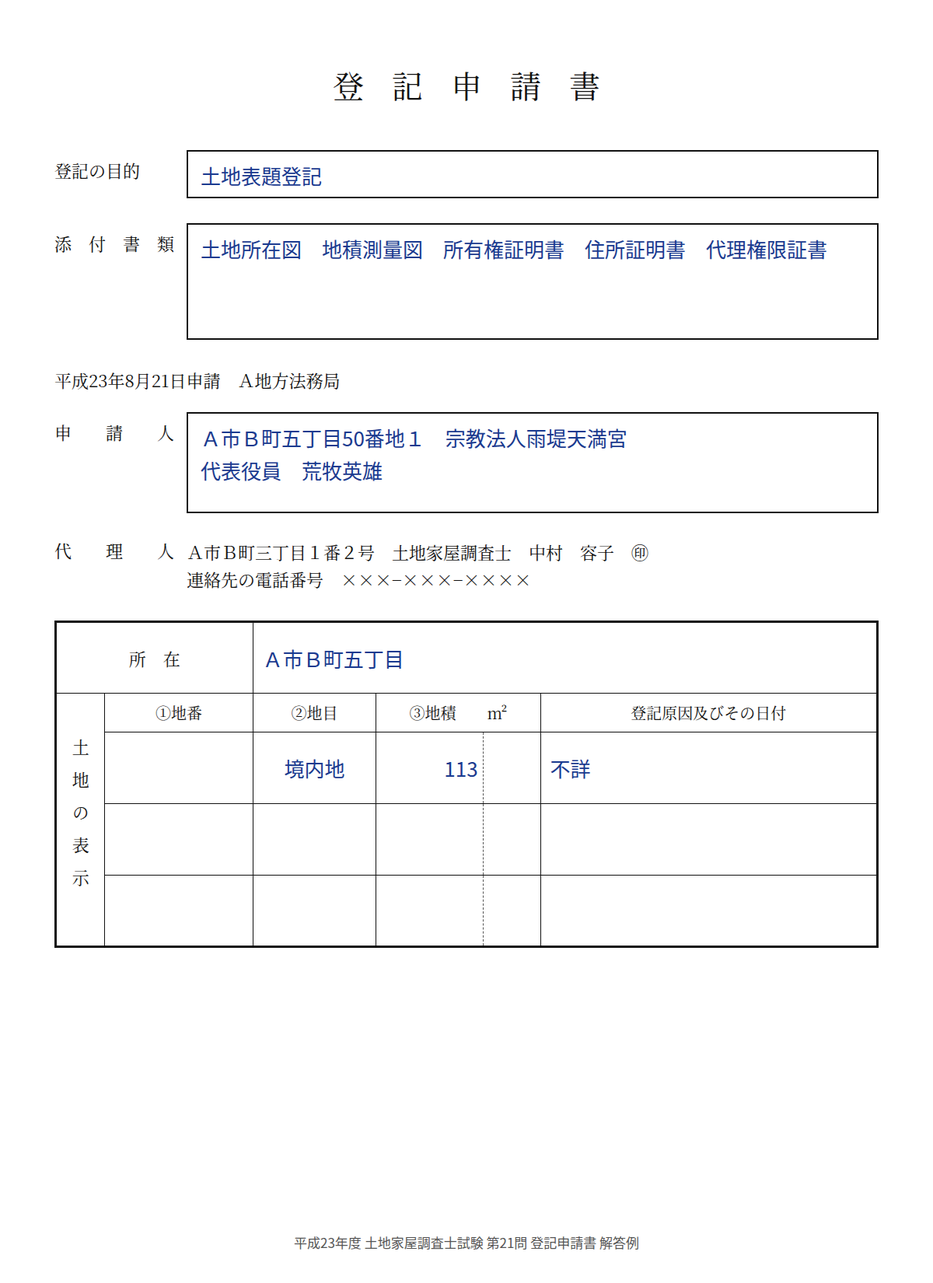
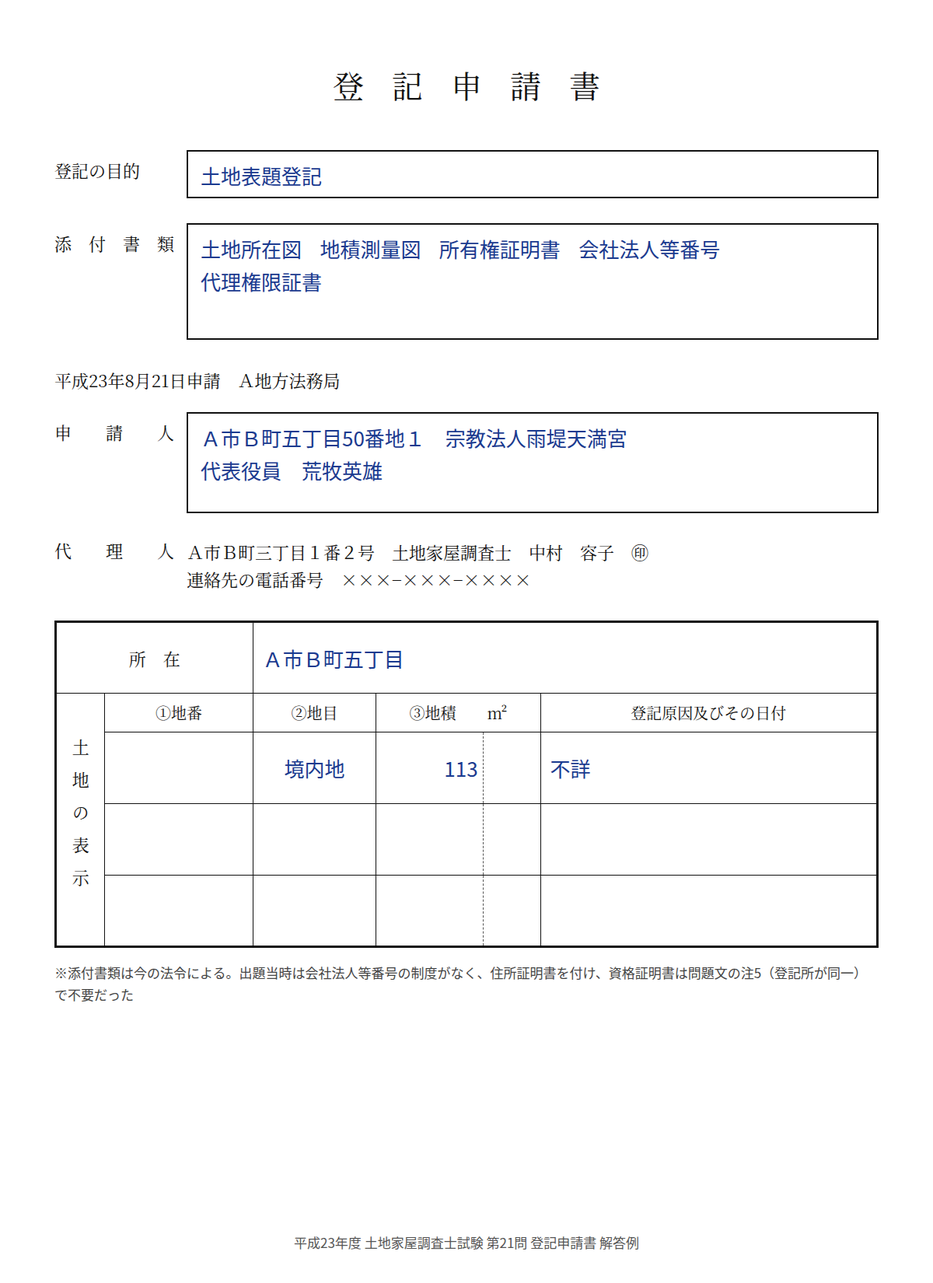
記述式：改題の要素は使わず、答えは今の法令で出題当時を注に添えるルールを追加し全年度を見直し
- 土地・建物の執筆プロンプト、チェックリスト、両方の依頼文に2つのルールを追加
  （予備校の改題の要素は記事・図解に反映しない／答えは今の法令、出題当時の扱いは「（出題当時は〜）」の注）
- 記事冒頭の改題の説明を削除（H23/Q22・H24/Q22・H25/Q21・H25/Q22・H26/Q22）
- H26/Q22・H27/Q21の添付情報に出題当時の注を整えた
- H23/Q21の添付書類を会社法人等番号に戻し出題当時の注を添え、申請書画像・添削画像・図11を再生成
- 照合スクリプトに改題の要素の不在・出題当時の注の確認を追加（全年度NG 0件）

Claude-Session: https://claude.ai/code/session_01RhiTQof9RGhuUzJokbcuhH

diff --git a/note-articles-Kijyutsu/H23/Q21/zu/H23_dai21mon_toukishinseisho_machigai.html b/note-articles-Kijyutsu/H23/Q21/zu/H23_dai21mon_toukishinseisho_machigai.html
@@ -23,6 +23,8 @@ table.land td.int { text-align: right; border-right: 1.5px dashed #555; padding-
 table.land td.dec { text-align: left; border-left: 1.5px dashed #555; padding-left: 6px; }
 table.land td.chimoku { text-align: center; }
 table.land td .ink, .box .ink { font-size: 26px; }
+.note { font-size: 17px; color: #444; margin-top: 18px; line-height: 1.6;
+         font-family: "Noto Sans CJK JP", "IPAGothic", sans-serif; }
 .caption { text-align: center; font-size: 17px; color: #555; margin-top: 30px;
             font-family: "Noto Sans CJK JP", "IPAGothic", sans-serif; }
 /* 添削画像 */
@@ -54,14 +56,14 @@ table.land td .ink, .box .ink { font-size: 26px; }
 <div class="plain" style="color:#888;font-size:18px">（申請の日付と提出先・申請人・代理人の欄は省略）</div>
 <div class="" style="position:relative"><table class="land compact"><colgroup><col style="width:6%"><col style="width:18%"><col style="width:15%"><col style="width:13%"><col style="width:7%"><col style="width:41%"></colgroup><tr><td class="shozai-lab" colspan="2">所　在</td><td colspan="4"><span class="ink">Ａ市Ｂ町五丁目</span></td></tr><tr><td class="vert" rowspan="2">土地の表示</td><td class="head">①地番</td><td class="head">②地目</td><td class="head" colspan="2">③地積　　m²</td><td class="head">登記原因及びその日付</td></tr><tr><td></td><td class="chimoku"><span class="ink">宅地</span></td><td class="int"><span class="ink">113</span></td><td class="dec"><span class="ink">87</span></td><td><span class="ink">昭和26年8月19日時効取得</span></td></tr></table></div>
 </div>
-<div class="panel"><div class="ptitle fix">②添削（赤ペン）</div><div class="row okrow"><div class="lab">添　付　書　類</div><div class="box fix" style="min-height:110px"><span class="item"><span class="ink">土地所在図</span></span><span class="item"><span class="ink">地積測量図</span></span><span class="item"><span class="ink">所有権証明書</span></span><span class="item"><span class="ink">住所証明書</span></span><span class="item"><span class="ink strike">資格証明書</span></span><span class="item"><span class="ink">代理権限証書</span></span></div></div>
-<div class="bubrow"><span class="bubble">問題文の注5：登記所が同一なので資格証明書は不要</span></div>
+<div class="panel"><div class="ptitle fix">②添削（赤ペン）</div><div class="row okrow"><div class="lab">添　付　書　類</div><div class="box fix" style="min-height:110px"><span class="item"><span class="ink">土地所在図</span></span><span class="item"><span class="ink">地積測量図</span></span><span class="item"><span class="ink">所有権証明書</span></span><span class="item"><span class="ink strike">住所証明書</span></span><span class="item"><span class="ink strike">資格証明書</span></span><span class="item"><span class="ink">代理権限証書</span></span><span class="red" style="font-size:26px">会社法人等番号</span></div></div>
+<div class="bubrow"><span class="bubble">今の法令では会社法人等番号<br>（出題当時は住所証明書を付け、資格証明書は注5で不要）</span></div>
 <div class="plain" style="color:#888;font-size:18px">（申請の日付と提出先・申請人・代理人の欄は省略）</div>
 <div class="" style="position:relative"><table class="land compact"><colgroup><col style="width:6%"><col style="width:18%"><col style="width:15%"><col style="width:13%"><col style="width:7%"><col style="width:41%"></colgroup><tr><td class="shozai-lab" colspan="2">所　在</td><td colspan="4"><span class="ink">Ａ市Ｂ町五丁目</span></td></tr><tr><td class="vert" rowspan="2">土地の表示</td><td class="head">①地番</td><td class="head">②地目</td><td class="head" colspan="2">③地積　　m²</td><td class="head">登記原因及びその日付</td></tr><tr><td></td><td class="chimoku"><span class="over"><span class="red up">境内地</span><span class="ink strike">宅地</span></span></td><td class="int"><span class="ink">113</span></td><td class="dec"><span class="ink strike">87</span></td><td><span class="over"><span class="red up">不詳</span><span class="ink strike">昭和26年8月19日時効取得</span></span></td></tr></table></div>
 <div class="bubrow table"><span class="bubble">境内地は1㎡未満切捨て、原因は土地が生じた原因の不詳</span></div></div>
-<div class="panel"><div class="ptitle ok">③正解</div><div class="row okrow"><div class="lab">添　付　書　類</div><div class="box good" style="min-height:110px"><span class="ink">土地所在図　地積測量図　所有権証明書　住所証明書　代理権限証書</span></div><svg class="check" width="44" height="44" viewBox="0 0 44 44"><circle cx="22" cy="22" r="20" fill="#fff" stroke="#2e9e44" stroke-width="3"/><path d="M11 23 L19 31 L33 14" fill="none" stroke="#2e9e44" stroke-width="5" stroke-linecap="round" stroke-linejoin="round"/></svg></div>
+<div class="panel"><div class="ptitle ok">③正解</div><div class="row okrow"><div class="lab">添　付　書　類</div><div class="box good" style="min-height:110px"><span class="item"><span class="ink">土地所在図</span></span><span class="item"><span class="ink">地積測量図</span></span><span class="item"><span class="ink">所有権証明書</span></span><span class="item"><span class="ink">会社法人等番号</span></span><span class="item"><span class="ink">代理権限証書</span></span></div><svg class="check" width="44" height="44" viewBox="0 0 44 44"><circle cx="22" cy="22" r="20" fill="#fff" stroke="#2e9e44" stroke-width="3"/><path d="M11 23 L19 31 L33 14" fill="none" stroke="#2e9e44" stroke-width="5" stroke-linecap="round" stroke-linejoin="round"/></svg></div>
 
 <div class="plain" style="color:#888;font-size:18px">（申請の日付と提出先・申請人・代理人の欄は省略）</div>
 <div class="good" style="position:relative"><table class="land compact"><colgroup><col style="width:6%"><col style="width:18%"><col style="width:15%"><col style="width:13%"><col style="width:7%"><col style="width:41%"></colgroup><tr><td class="shozai-lab" colspan="2">所　在</td><td colspan="4"><span class="ink">Ａ市Ｂ町五丁目</span></td></tr><tr><td class="vert" rowspan="2">土地の表示</td><td class="head">①地番</td><td class="head">②地目</td><td class="head" colspan="2">③地積　　m²</td><td class="head">登記原因及びその日付</td></tr><tr><td></td><td class="chimoku"><span class="ink">境内地</span></td><td class="int"><span class="ink">113</span></td><td class="dec"></td><td><span class="ink">不詳</span></td></tr></table><svg class="check" width="44" height="44" viewBox="0 0 44 44"><circle cx="22" cy="22" r="20" fill="#fff" stroke="#2e9e44" stroke-width="3"/><path d="M11 23 L19 31 L33 14" fill="none" stroke="#2e9e44" stroke-width="5" stroke-linecap="round" stroke-linejoin="round"/></svg></div>
 </div>
-<div class="caption" style="margin:10px 0 30px">平成23年度 第21問｜資格証明書は注5で不要、境内地113㎡、原因は不詳</div></body></html>
+<div class="caption" style="margin:10px 0 30px">平成23年度 第21問｜添付書類は会社法人等番号、境内地113㎡、原因は不詳</div></body></html>

diff --git a/note-articles-Kijyutsu/H23/Q21/zu/H23_dai21mon_toukishinseisho_kansei.html b/note-articles-Kijyutsu/H23/Q21/zu/H23_dai21mon_toukishinseisho_kansei.html
@@ -23,6 +23,8 @@ table.land td.int { text-align: right; border-right: 1.5px dashed #555; padding-
 table.land td.dec { text-align: left; border-left: 1.5px dashed #555; padding-left: 6px; }
 table.land td.chimoku { text-align: center; }
 table.land td .ink, .box .ink { font-size: 26px; }
+.note { font-size: 17px; color: #444; margin-top: 18px; line-height: 1.6;
+         font-family: "Noto Sans CJK JP", "IPAGothic", sans-serif; }
 .caption { text-align: center; font-size: 17px; color: #555; margin-top: 30px;
             font-family: "Noto Sans CJK JP", "IPAGothic", sans-serif; }
 /* 添削画像 */
@@ -51,11 +53,12 @@ table.land td .ink, .box .ink { font-size: 26px; }
 </style></head><body><div class="page">
 <div class="title">登記申請書</div>
 <div class="row"><div class="lab">登記の目的</div><div class="box" style="height:62px"><span class="ink">土地表題登記</span></div></div>
-<div class="row"><div class="lab">添　付　書　類</div><div class="box" style="height:150px"><span class="ink">土地所在図　地積測量図　所有権証明書　住所証明書　代理権限証書</span></div></div>
+<div class="row"><div class="lab">添　付　書　類</div><div class="box" style="height:150px"><span class="item"><span class="ink">土地所在図</span></span><span class="item"><span class="ink">地積測量図</span></span><span class="item"><span class="ink">所有権証明書</span></span><span class="item"><span class="ink">会社法人等番号</span></span><span class="item"><span class="ink">代理権限証書</span></span></div></div>
 <div class="plain">平成23年8月21日申請　Ａ地方法務局</div>
 <div class="row"><div class="lab">申　　請　　人</div><div class="box" style="height:130px"><span class="ink">Ａ市Ｂ町五丁目50番地１　宗教法人雨堤天満宮<br>代表役員　荒牧英雄</span></div></div>
 <div class="dairi"><div class="lab">代　　理　　人</div><div class="txt">Ａ市Ｂ町三丁目１番２号　土地家屋調査士　中村　容子　㊞<br>連絡先の電話番号　×××−×××−××××</div></div>
 <div style="height:6px"></div>
 <table class="land"><colgroup><col style="width:6%"><col style="width:18%"><col style="width:15%"><col style="width:13%"><col style="width:7%"><col style="width:41%"></colgroup><tr><td class="shozai-lab" colspan="2">所　在</td><td colspan="4"><span class="ink">Ａ市Ｂ町五丁目</span></td></tr><tr><td class="vert" rowspan="4">土地の表示</td><td class="head">①地番</td><td class="head">②地目</td><td class="head" colspan="2">③地積　　m²</td><td class="head">登記原因及びその日付</td></tr><tr><td></td><td class="chimoku"><span class="ink">境内地</span></td><td class="int"><span class="ink">113</span></td><td class="dec"></td><td><span class="ink">不詳</span></td></tr><tr><td></td><td class="chimoku"></td><td class="int"></td><td class="dec"></td><td></td></tr><tr><td></td><td class="chimoku"></td><td class="int"></td><td class="dec"></td><td></td></tr></table>
+<div class="note">※添付書類は今の法令による。出題当時は会社法人等番号の制度がなく、住所証明書を付け、資格証明書は問題文の注5（登記所が同一）で不要だった</div>
 <div class="caption">平成23年度 土地家屋調査士試験 第21問 登記申請書 解答例</div>
 </div></body></html>

diff --git a/note-articles-Kijyutsu/H23/Q21/zu/make_H23_dai21mon_shinseisho_gazou.py b/note-articles-Kijyutsu/H23/Q21/zu/make_H23_dai21mon_shinseisho_gazou.py
@@ -47,6 +47,8 @@ table.land td.int {{ text-align: right; border-right: 1.5px dashed #555; padding
 table.land td.dec {{ text-align: left; border-left: 1.5px dashed #555; padding-left: 6px; }}
 table.land td.chimoku {{ text-align: center; }}
 table.land td .ink, .box .ink {{ font-size: 26px; }}
+.note {{ font-size: 17px; color: #444; margin-top: 18px; line-height: 1.6;
+         font-family: "Noto Sans CJK JP", "IPAGothic", sans-serif; }}
 .caption {{ text-align: center; font-size: 17px; color: #555; margin-top: 30px;
             font-family: "Noto Sans CJK JP", "IPAGothic", sans-serif; }}
 /* 添削画像 */
@@ -103,9 +105,15 @@ def page(body):
     return f'<!doctype html><html lang="ja"><head><meta charset="utf-8"><style>{CSS}</style></head><body>{body}</body></html>'
 
 
+def items(s, strike=()):
+    """添付書類を書類ごとの塊にして、書類名の途中で折り返さないようにする。strike に入れた書類には取消線。"""
+    return ''.join(f'<span class="item"><span class="ink{" strike" if t in strike else ""}">{t}</span></span>' for t in s.split('　'))
+
+
 # ---- 完成形（記入データは prompt_H23_dai21mon_toukishinseisho_gazou.md のとおり） ----
 DATE = '平成23年8月21日申請　Ａ地方法務局'
-TENPU = '土地所在図　地積測量図　所有権証明書　住所証明書　代理権限証書'
+TENPU = '土地所在図　地積測量図　所有権証明書　会社法人等番号　代理権限証書'
+NOTE = '※添付書類は今の法令による。出題当時は会社法人等番号の制度がなく、住所証明書を付け、資格証明書は問題文の注5（登記所が同一）で不要だった'
 APPLICANT = 'Ａ市Ｂ町五丁目50番地１　宗教法人雨堤天満宮<br>代表役員　荒牧英雄'
 DAIRI = 'Ａ市Ｂ町三丁目１番２号　土地家屋調査士　中村　容子　㊞<br>連絡先の電話番号　×××−×××−××××'
 SHOZAI = 'Ａ市Ｂ町五丁目'
@@ -113,12 +121,13 @@ ROWS = [('', '境内地', '113', '', '不詳')]
 kansei = page(f'''<div class="page">
 <div class="title">登記申請書</div>
 <div class="row"><div class="lab">登記の目的</div><div class="box" style="height:62px">{ink('土地表題登記')}</div></div>
-<div class="row"><div class="lab">添　付　書　類</div><div class="box" style="height:150px">{ink(TENPU)}</div></div>
+<div class="row"><div class="lab">添　付　書　類</div><div class="box" style="height:150px">{items(TENPU)}</div></div>
 <div class="plain">{DATE}</div>
 <div class="row"><div class="lab">申　　請　　人</div><div class="box" style="height:130px">{ink(APPLICANT)}</div></div>
 <div class="dairi"><div class="lab">代　　理　　人</div><div class="txt">{DAIRI}</div></div>
 <div style="height:6px"></div>
 {land_table([tuple(ink(v) for v in r) for r in ROWS], shozai=ink(SHOZAI))}
+<div class="note">{NOTE}</div>
 <div class="caption">平成23年度 土地家屋調査士試験 第21問 登記申請書 解答例</div>
 </div>''')
 
@@ -140,25 +149,21 @@ def snippet(tenpu_html, chimoku, dec, genin, bubble1='', bubble2='', good=False,
 NG_TENPU = '土地所在図　地積測量図　所有権証明書　住所証明書　資格証明書　代理権限証書'
 
 
-def items(s, strike=()):
-    """添付書類を書類ごとの塊にして、書類名の途中で折り返さないようにする。strike に入れた書類には取消線。"""
-    return ''.join(f'<span class="item"><span class="ink{" strike" if t in strike else ""}">{t}</span></span>' for t in s.split('　'))
-
 
 ng_panel = snippet(items(NG_TENPU), ink('宅地'), ink('87'), ink('昭和26年8月19日時効取得'))
 fix_panel = snippet(
-    items(NG_TENPU, strike=('資格証明書',)),
+    items(NG_TENPU, strike=('住所証明書', '資格証明書')) + '<span class="red" style="font-size:26px">会社法人等番号</span>',
     '<span class="over"><span class="red up">境内地</span><span class="ink strike">宅地</span></span>',
     '<span class="ink strike">87</span>',
     '<span class="over"><span class="red up">不詳</span><span class="ink strike">昭和26年8月19日時効取得</span></span>',
-    bubble1='問題文の注5：登記所が同一なので資格証明書は不要',
+    bubble1='今の法令では会社法人等番号<br>（出題当時は住所証明書を付け、資格証明書は注5で不要）',
     bubble2='境内地は1㎡未満切捨て、原因は土地が生じた原因の不詳', fix=True)
-ok_panel = snippet(ink(TENPU), ink('境内地'), '', ink('不詳'), good=True)
+ok_panel = snippet(items(TENPU), ink('境内地'), '', ink('不詳'), good=True)
 machigai = page(f'''
 <div class="panel"><div class="ptitle ng">①誤答</div>{ng_panel}</div>
 <div class="panel"><div class="ptitle fix">②添削（赤ペン）</div>{fix_panel}</div>
 <div class="panel"><div class="ptitle ok">③正解</div>{ok_panel}</div>
-<div class="caption" style="margin:10px 0 30px">平成23年度 第21問｜資格証明書は注5で不要、境内地113㎡、原因は不詳</div>''')
+<div class="caption" style="margin:10px 0 30px">平成23年度 第21問｜添付書類は会社法人等番号、境内地113㎡、原因は不詳</div>''')
 
 exe = sorted(glob.glob('/opt/pw-browsers/chromium-*/chrome-linux/chrome'))
 with sync_playwright() as p:

diff --git a/note-articles-Kijyutsu/H23/Q21/zu/draw_H23_dai21mon_kaisetsuzu.py b/note-articles-Kijyutsu/H23/Q21/zu/draw_H23_dai21mon_kaisetsuzu.py
@@ -452,7 +452,7 @@ ALL_PROBLEMS += save(fig, [z], 'H23_dai21mon_zu10_menseki_chimoku.png')
 # 図11：問3 申請書の整理（固定配置）
 # =====================================================================
 fig, ax = fixed_figure('図11　問3　申請書の考え方（登記原因・添付書類・地番）',
-                       '取得原因（時効取得）と表題登記の登記原因（土地が生じた原因）を混ぜない。問題文の注5で資格証明書は不要、住所証明書は別の決まりで要る。')
+                       '取得原因（時効取得）と表題登記の登記原因（土地が生じた原因）を混ぜない。添付書類は今の法令で会社法人等番号（出題当時の扱いは注で添える）。')
 BOX11 = [
     (4, 54, 44, 40, '登記原因及びその日付', RED,
      ['表題登記の登記原因＝土地が生じた原因', '本件土地はいつ・どうしてできたか分からない', '→「不詳」',
@@ -460,8 +460,7 @@ BOX11 = [
     (52, 54, 44, 40, '時効取得はどこに出る？', BLUE,
      ['所有権を有することを証する情報', '（不動産登記令別表4の項添付情報欄ハ）', '→ A財務事務所の書面＝所有権証明書'], [2]),
     (4, 6, 44, 42, '添付書類', PURPLE,
-     ['土地所在図　地積測量図', '所有権証明書　住所証明書', '代理権限証書', '資格証明書は問題文の注5で不要',
-      '（登記所が同一のため）'], [3]),
+     ['土地所在図　地積測量図', '所有権証明書　会社法人等番号', '代理権限証書', '（出題当時は会社法人等番号がなく住所証明書を付け、', '　資格証明書は問題文の注5で不要）'], [1]),
     (52, 6, 44, 42, '土地の表示', GREEN,
      ['所在：A市B町五丁目', '①地番：空欄（登記官が付ける）', '②地目：境内地（準則第68条第13号）',
       '③地積：113（1㎡未満切捨て）', '登録免許税の欄はない（非課税）'], [2, 3]),

diff --git a/note-articles-Kijyutsu/H26/Q22/verify_H26_dai22mon.py b/note-articles-Kijyutsu/H26/Q22/verify_H26_dai22mon.py
@@ -112,7 +112,7 @@ check('登記識別情報', '（同令第8条第1項第3号）。これは合併
 check('会社法人等番号', '（不動産登記令第7条第1項第1号イ）')
 check('印鑑証明書の根拠', '不動産登記規則第47条第3号イ（6）')
 check('印鑑証明書の省略', '（同規則第49条第2項第1号）')
-check('本試験当時の資格証明書', '代表者の資格を証する情報（資格証明書）と印鑑証明書を付けていたの')
+check('出題当時の注（資格証明書）', '（出題当時は会社法人等番号の制度〈平成27年11月施行〉がなく、会社法人等番号の代わりに代表者の資格を証する情報〈資格証明書〉を付け、印鑑証明書も省略せずに付けていた）')
 check('問3 添付情報', '添付情報は、建物図面、各階平面図、登記識別情報、会社法人等番号、印鑑証明書（会社法人等番号の提供により省略）、代理権限証書です')
 check('登録免許税', '合併後の建物1個につき1,000円（登録免許税法別表第一の一（十三）ロ）')
 check('申請人', '（不動産登記法第54条第1項。答案用紙では略）')

diff --git a/note-articles-Kijyutsu/H23/Q22/verify_H23_dai22mon.py b/note-articles-Kijyutsu/H23/Q22/verify_H23_dai22mon.py
@@ -56,7 +56,8 @@ for old, new in DATES.items():
     absent('改題版の日付', old)
     absent('改題版の日付', old, form, '申請書')
     check('本試験の日付', new)
-check('改題版の注記', '解答例は日付を平成30年に置き換えた改題版のため、試験問題の本文と答案用紙の日付に戻して照合しました')
+check('照合済みの一文（改題の説明は書かない。2026-09-30、ユーザー指示）', '※本記事の数値は、アガルートアカデミーの解答例と照合済みです。')
+absent('改題の説明', '改題')
 
 # ---- 敷地（座標リスト）：F-789SGの表示と辺長 ----
 A, B, C, D, E = P(254.43, 187.17), P(241.25, 187.17), P(239.25, 185.17), P(239.25, 163.79), P(254.43, 163.79)

diff --git a/note-articles-Kijyutsu/H23/Q21/note_H23_dai21mon_tochi_kaiwa_kaisetsu.md b/note-articles-Kijyutsu/H23/Q21/note_H23_dai21mon_tochi_kaiwa_kaisetsu.md
@@ -57,7 +57,7 @@
 「問題文の注1（座標は小数第3位を四捨五入）、問題文の注2（訂正の方法）、問題文の注3（地積測量図の辺長は小数第3位を四捨五入、座標値・系の番号・求積方法・地積は書かなくてよい）、問題文の注7（書面申請）は、毎年ほとんど同じです。今年だけなのは、問題文の注4（T2・T3を地積測量図に描いて、名称と座標値を書く）、問題文の注5（申請を受ける登記所と法人の登記を受けた登記所が同一）、問題文の注6（近傍類似の土地の地図の縮尺は500分の1）です」
 
 **トリ先生**  
-「そう。毎年同じ注は流し読みでいい。今年だけの3つは、どれも答案のどこかに効いてくる。問題文の注5は申請書の添付書類、問題文の注6は土地所在図の縮尺、問題文の注4は地積測量図よ」
+「そう。毎年同じ注は流し読みでいい。今年だけの3つは、どれも答案のどこかに効いてくる。問題文の注5は出題当時の申請書の添付書類（今の法令では会社法人等番号になるので、第6章で出題当時の扱いとして注に添える）、問題文の注6は土地所在図の縮尺、問題文の注4は地積測量図よ」
 
 **藍子**  
 「先生、見取図は傾いて描いてあって、どの辺が真っすぐなのか分かりません」
@@ -623,21 +623,27 @@ H ＝ E − 9.732 ＋ 6.836∠120°
 「添付書類を全部並べます。土地所在図、地積測量図、所有権証明書、住所証明書、代理権限証書。それから、申請人が法人だから、代表者の資格を証明する資格証明書！」
 
 **トリ先生**  
-「――問題文の注5を読み飛ばしたわね！『申請を受ける登記所と当該法人の登記を受けた登記所は、同一である』。本試験当時の不動産登記規則では、申請を受ける登記所が法人の登記を受けた登記所と同じなら、代表者の資格を証する情報を付けなくてよかったの。問題文の注5は、資格証明書を書かせないための注よ」
+「――それは出題当時の法令の書き方よ！この記事は、答えを今の法令で出して、出題当時の扱いは注で添えるわ。今は、申請人が会社法人等番号を持つ法人なら、会社法人等番号を申請情報と併せて提供する（不動産登記令第7条第1項第1号イ）。それで代表者の資格を証する情報は要らないの」
 
 **藍子**  
-「今年だけの注は、やっぱり答案のどこかに効くんですね。住所証明書は付けていいんですか？」
+「会社法人等番号……。じゃあ、住所証明書は付けていいんですか？」
 
 **トリ先生**  
-「付けるわ。表題部所有者となる者の住所を証する情報は、土地の表題登記の添付情報として別に決まっている（不動産登記令別表4の項添付情報欄ニ）。問題文の注5で省けたのは代表者の資格のほうだけよ。今年だけの注が、どの欄のどの書類に効くのかを確かめてから書きなさい」
+「表題部所有者となる者の住所を証する情報は、土地の表題登記の添付情報として決まっている（不動産登記令別表4の項添付情報欄ニ）。でも、会社法人等番号を提供したときは、住所を証する情報も付けなくていい（不動産登記令第9条、不動産登記規則第36条第4項）。だから今の法令の答えは、土地所在図、地積測量図、所有権証明書、会社法人等番号、代理権限証書よ（出題当時は会社法人等番号の制度〈平成27年11月施行〉がなく、住所証明書を付け、資格証明書は問題文の注5〈申請を受ける登記所と法人の登記を受けた登記所が同一〉で付けなくてよかった）」
 
-> 【画像挿入】登記申請書の「添付書類」欄と「土地の表示」の記入行の誤答→添削→正解の3コマ（添付書類の資格証明書を消す、地目「宅地」を「境内地」に、地積「113｜87」を「113」に、登記原因「昭和26年8月19日時効取得」を「不詳」に赤で直す）
+**藍子**  
+「問題文の注5は、出題当時の資格証明書を書かせないための注だったんですね。今の法令なら、問題文の注5がなくても会社法人等番号で済むと」
+
+**トリ先生**  
+「そう。本試験の年の注が、今の法令でも意味を持つのかを確かめてから書きなさい」
+
+> 【画像挿入】登記申請書の「添付書類」欄と「土地の表示」の記入行の誤答→添削→正解の3コマ（添付書類の住所証明書と資格証明書を消して会社法人等番号にする、地目「宅地」を「境内地」に、地積「113｜87」を「113」に、登記原因「昭和26年8月19日時効取得」を「不詳」に赤で直す）
 
 **トリ先生**  
 「残りの欄も一つずつ埋めなさい。答案用紙に登録免許税の欄がないのは、表題登記には登録免許税がかからないからよ。登録免許税は別表第一に掲げる登記にかかる（登録免許税法第2条）けど、表題登記は掲げられていないの」
 
 - **登記の目的**：土地表題登記
-- **添付書類**：土地所在図　地積測量図　所有権証明書　住所証明書　代理権限証書
+- **添付書類**：土地所在図　地積測量図　所有権証明書　会社法人等番号　代理権限証書（出題当時は会社法人等番号の制度がなく、住所証明書を付け、資格証明書は問題文の注5で不要）
 - **申請人**：A市B町五丁目50番地1　宗教法人雨堤天満宮　代表役員　荒牧英雄
 - **所在**：A市B町五丁目
 - **1行目**：①地番は空欄、②境内地、③113、登記原因及びその日付「不詳」
@@ -648,7 +654,7 @@ H ＝ E − 9.732 ＋ 6.836∠120°
 **トリ先生**  
 「地番は登記官が付けるものよ。土地の表題登記の申請情報には、地番は要らない（不動産登記令第3条第7号ロ）。申請人は法人だから、主たる事務所と名称のほかに、代表者の氏名も書く（同条第2号）。所在は、地番区域の『A市B町五丁目』まで。無番地だから、地番は書かないわ」
 
-> 【画像挿入】問3の整理図（取得原因＝時効取得は所有権証明書で示す、表題登記の登記原因＝土地が生じた原因で不詳、問題文の注5で資格証明書は不要、住所証明書は別に要る、地番は空欄、境内地は1㎡未満切捨て）
+> 【画像挿入】問3の整理図（取得原因＝時効取得は所有権証明書で示す、表題登記の登記原因＝土地が生じた原因で不詳、添付書類は今の法令で会社法人等番号〈出題当時は住所証明書を付け、資格証明書は問題文の注5で不要〉、地番は空欄、境内地は1㎡未満切捨て）
 
 > 【画像挿入】登記申請書（問3）の完成形（登記の目的、添付書類、申請人、土地の表示の所在と1行目）
 
@@ -748,7 +754,7 @@ JK ＝ Abs(K − J)　KI ＝ Abs(I − K)　IC ＝ Abs(C − I)
 - **申請する登記は土地表題登記**：50番1の地積の更正で取り込めない
 - **地目は境内地、地積は1㎡未満切捨ての113㎡**：宅地・公衆用道路にしない
 - **登記原因は不詳**：時効取得は取得原因で、所有権証明書で示す
-- **問題文の注5で資格証明書は不要、住所証明書は要る**：申請を受ける登記所と法人の登記を受けた登記所が同一なので、代表者の資格を証する情報は付けない
+- **添付書類は今の法令で会社法人等番号**：会社法人等番号を出せば、代表者の資格を証する情報も住所を証する情報も要らない（出題当時は住所証明書を付け、資格証明書は問題文の注5〈登記所が同一〉で不要）
 - **土地所在図は1／500、地積測量図は1／250**：問題文の注6。縮尺が違うので兼用にしない
 
 **藍子**  

diff --git a/note-articles-Kijyutsu/prompt_note-kijutsu_tochi_kaiwa_kyoutsu.md b/note-articles-Kijyutsu/prompt_note-kijutsu_tochi_kaiwa_kyoutsu.md
@@ -177,7 +177,7 @@
 - **交点からの距離と端点からの距離（H23/Q21で追加）**：「2直線の交点からE点及びH点までの距離」は交点から測る。方向角をもらった端点（D）から測らない（H23/Q21：Dから6.836mだと交点から0.21mの点）。交点の片方の直線が軸に平行（E − J ＝ 23.34、iの係数0）なら、交点は座標の足し引きだけで出る
 - **無番地の土地の土地表題登記（H23/Q21で追加。H28/Q21と同じ考え方）**：隣の土地に接続する国有の無番地の土地は、隣の土地の一部ではないので、隣の土地の地積の更正で取り込めない。所有権を取得した者が土地表題登記を申請する（不動産登記法第36条）。表題部所有者になれば所有権の保存の登記ができる（同法第74条第1項第1号）。神社の建物（神楽殿）のある一画と参道は境内地（不動産登記事務取扱手続準則第68条第13号。宅地・公衆用道路にしない）で、地積は1㎡未満を切り捨て。登記原因は土地が生じた原因の「不詳」（時効取得の日付を書かない。時効の効力が起算日にさかのぼる〈民法第144条〉のは所有権の取得の話）。地番は空欄（不動産登記令第3条第7号ロ）。表題登記には登録免許税がかからない（登録免許税法第2条、別表第一に掲げられていない）ので、答案用紙に欄がなければ足さない
 - **時効取得の要件となる具体的事実（H23/Q21で追加）**：民法第162条の要件（他人の物・所有の意思・平穏かつ公然・20年間〈第1項〉または善意無過失で10年間〈第2項〉）の言葉と、問題文の事実を1組ずつ並べる。地主から借りていた期間は所有の意思がない（他主占有）ので、占有の開始は自分の土地として使い始めた日（隣の土地を買い受けた日）。証明書の占有開始日と時効完成日の差（20年）で第1項と決め、問題文にない善意・無過失を作らない
-- **予備校の改題で加えられた要素は使わない（H23/Q21で追加。2026-09-30、ユーザー指示）**：予備校の過去問集は、問題文の注・日付・人名・答案用紙の欄を書き換えることがある（H23/Q21の注5：本試験は「申請を受ける登記所と当該法人の登記を受けた登記所は、同一」、改題は会社法人等番号の話に書き換え）。試験本番と異なる事項はアガルート独自の教材なので、照合にも使わず、記事本文にも書かない（「改題」「過去問集の再掲は〜を書き換えた」といった説明も、改題の注に由来する今の法令の補足〈H23/Q21なら会社法人等番号〉も書かない）。答えは試験問題本文と試験の答案用紙だけで決め、改題で変わった解答例の欄（登記事項証明書など）は照合の対象から外して作業報告に書く
+- **予備校の改題の要素と法改正（H23/Q21で追加。2026-09-30、ユーザー指示）**：「書き方の注意」の2つのルールのとおり。改題で書き換えた問題文の注・日付・欄は使わず、記事にも書かない。答えは今の法令（H23/Q21：添付書類は会社法人等番号。会社法人等番号を出せば住所を証する情報も要らない）で書き、出題当時の扱いは「（出題当時は会社法人等番号の制度がなく、住所証明書を付け、資格証明書は問題文の注5〈申請を受ける登記所と法人の登記を受けた登記所が同一〉で不要）」のように注で添える
 - **土地所在図と地積測量図の縮尺が違う年度（H23/Q21で追加）**：近傍類似の地図の縮尺（問題文の注6：500分の1）で作る土地所在図（不動産登記規則第76条第2項）と、250分の1の地積測量図（同規則第77条第4項）は、縮尺が違うので1枚の「土地所在図兼地積測量図」にできない（準則第51条第4項は同じ縮尺のときだけ）。地積測量図の用紙の余白に土地所在図を描く（同条第3項）。答案用紙に印刷された縮尺（1／250）は地積測量図の縮尺で、土地所在図の縮尺（1／500）は自分で書く。地番がまだない土地の地番欄は空欄、区画の中は「申請地」
 **7. 設問の網羅性を最終確認する**
 
@@ -451,7 +451,7 @@
   - 土地表題登記（別の1筆）⇔ 隣の50番1の地積の更正で取り込む
   - 境内地（1㎡未満切捨ての113）⇔ 神楽殿の建物で宅地（113.87）
   - 土地が生じた原因の「不詳」⇔ 所有権の取得原因「昭和26年8月19日時効取得」
-  - 問題文の注5で資格証明書は不要 ⇔ 法人だから資格証明書
+  - 今の法令の会社法人等番号（出題当時は住所証明書を付け、資格証明書は問題文の注5で不要）⇔ 出題当時の書き方の住所証明書・資格証明書
   - 土地所在図は1／500、地積測量図は1／250 ⇔ 印刷の1／250で両方を描く
 - 誤答の結果（ずれた座標・崩れる穴埋め）を具体的な数値で見せると、なぜ誤りかが伝わる。その数値も照合スクリプトで確かめる
 
@@ -478,6 +478,8 @@
 - トリ先生のセリフは辛辣だが、必ず正しい知識・正しい結論を教える形で終える
 - 図形の位置は「右上・左下」ではなく、座標（X＝北、Y＝東）で確かめて東西南北で書く
 - 冒頭に「※本記事の数値は、○○の解答例と照合済みです。」の一文を入れる（照合できた場合のみ）
+- **予備校の改題の要素は、記事・図解に反映しない（2026-09-30追加、H23/Q21。ユーザー指示）**：予備校（アガルートなど）の過去問集の再掲・解答例は、日付・人名・問題文の注・答案用紙の欄を書き換えた改題になっていることがある（H23/Q21：注5を会社法人等番号の話に書き換え、日付を平成30年・昭和30年に置き換え）。試験本番と異なる事項はアガルート独自の教材なので、note記事・解説図・登記申請書の画像・見出し画像に反映せず、照合にも使わない。記事本文に「改題」「過去問集の再掲は〜を書き換えた」といった説明も書かない（冒頭は「※本記事の数値は、○○の解答例と照合済みです。」の一文だけ）。問題文・日付・欄は試験問題本文と試験の答案用紙だけで決め、改題で変わった解答例の欄は照合の対象から外して作業報告に書く
+- **答えは今の法令で、出題当時の扱いは「（出題当時は〜）」の注で添える（2026-09-30追加、H23/Q21・H26/Q22・H27/Q21。ユーザー指示）**：法改正で答えが変わる項目は、今の法令で正解を書き、その場に「（出題当時は〜）」の注を添える。例：平成27年11月施行の会社法人等番号より前の年度で申請人が法人なら、添付情報は「会社法人等番号」（出題当時は会社法人等番号の制度がなく、資格証明書）。会社法人等番号を提供すれば、表題登記などの住所を証する情報も要らない（不動産登記令第9条、不動産登記規則第36条第4項。H23/Q21）。登記申請書の画像も今の法令で記入し、出題当時の扱いは表の下に小さな注で入れる。今の法令の条文は原典で確かめて示し、出題当時の条文は確かめられない限り条番号を書かない。これは改題の要素を使うことではない（問題文〈出題当時の文言〉と今の法令から自分で導く）ので、上のルールと両立する
 
 ## 出力（保存先：`note-articles-Kijyutsu/{年度}/Q21/`）
 

diff --git a/note-articles-Kijyutsu/qa-checklist-kijutsu.md b/note-articles-Kijyutsu/qa-checklist-kijutsu.md
@@ -77,6 +77,7 @@
 - **必要な登記と申請人**：誰の不動産について、誰が申請するか（最終的に取得する人ではなく、登記の時点の所有者か）
 - **申請人の住所表記**：登記記録どおりか（住所変更登記の完了日など）
 - **ひっかけの選択肢・問題文の注記**（「〜する必要がある場合であったとしても」など）を、記事で正しく扱っているか
+- **予備校の改題の要素と法改正（土地・建物共通。2026-09-30追加、ユーザー指示）**：改題で加えられた要素（書き換えた注・日付・人名・答案用紙の欄）を記事・解説図・画像に反映していないか。記事の冒頭の一文に改題の説明を書いていないか。答えは今の法令で、出題当時と違う項目に「（出題当時は〜）」の注を添えたか（詳しくは3-1の同名の項）
 
 ### 3-1. 土地固有
 
@@ -177,7 +178,7 @@
 - **交点からの距離（2026-09-30追加、H23/Q21）**：「2直線の交点からE点及びH点までの距離」を、端点（D）からの距離と読んでいないか。交点を出してから、その交点から測ったか（H23/Q21：Dから6.836mだと交点から0.21mの点に出る）
 - **無番地の土地の表題登記（2026-09-30追加、H23/Q21）**：隣の土地の地積の更正で取り込もうとしていないか（筆界の外の国有地は別の1筆）。地目を建物・参道の見た目で宅地・公衆用道路にしていないか（神社の建物のある一画と参道は境内地、不動産登記事務取扱手続準則第68条第13号）。境内地の地積を1㎡未満で切り捨てたか。登記原因を所有権の取得原因（時効取得）にしていないか（「不詳」）。地番を空欄にしたか（不動産登記令第3条第7号ロ）。答案用紙にない登録免許税の欄を足していないか
 - **時効取得の要件事実（2026-09-30追加、H23/Q21）**：民法第162条の要件（他人の物・所有の意思・平穏かつ公然・期間）の言葉と、問題文の事実を1組ずつそろえたか。借りて使っていた期間（他主占有）を占有の期間に入れていないか。問題文にない事実（善意・無過失）を作って10年の時効にしていないか（証明書の占有開始日と時効完成日の差で年数を確かめる）
-- **予備校の改題で加えられた要素（2026-09-30追加、H23/Q21。ユーザー指示）**：予備校の過去問集が書き換えた問題文の注・日付・人名・答案用紙の欄（H23/Q21の注5〈会社法人等番号を提供できない〉など）を、照合・記事本文・付属プロンプト・図に使っていないか。「改題」の説明や、改題の注に由来する今の法令の補足（会社法人等番号）も記事に書いていないか。答えを試験問題本文と試験の答案用紙だけで決めたか
+- **予備校の改題の要素と法改正（2026-09-30追加、H23/Q21。ユーザー指示）**：予備校の過去問集が書き換えた問題文の注・日付・人名・答案用紙の欄を、照合・記事本文・付属プロンプト・図に使っていないか。記事に「改題」「過去問集の再掲は〜」の説明を書いていないか。法改正で答えが変わる項目（会社法人等番号など）は今の法令で答え、「（出題当時は〜）」の注を添えたか（申請書の画像は表の下の注）
 - **土地所在図と地積測量図の縮尺が違う年度（2026-09-30追加、H23/Q21）**：近傍類似の地図の縮尺（500分の1）と地積測量図の縮尺（250分の1）が違うとき、1枚の土地所在図兼地積測量図にしていないか（準則第51条第4項は同じ縮尺のときだけ）。答案用紙に印刷された縮尺（1／250）は地積測量図の縮尺で、余白に描く土地所在図（同条第3項）の縮尺は自分で書くことを確かめたか
 ### 3-2. 建物固有
 
@@ -381,6 +382,16 @@
 ## 改善記録（PDCA）
 
 チェックで見つかった誤りの種類と、指示書・執筆プロンプトへの反映を記録する。新しい記録は上に追加する。
+
+**2026-09-30　改題の要素を使わないルールと、今の法令で答えて出題当時の扱いを注で添えるルール（ユーザー指示、全年度の見直し）**
+
+- 指示1：予備校の解答例（過去問集）が改題の要素を含み、本試験当時の問題文・内容と変わっている場合は、note記事や図解に反映しない。この執筆ルールを土地・建物の両方のプロンプトに追記し、作成済みの記述式の記事を見直す
+- 指示2：会社法人等番号（平成27年11月施行）は本試験当時になかったが、今の法令にしたがって答えを導く。今の法令で会社法人等番号が正解なら、答えを「会社法人等番号」とし、「（出題当時は〜）」の注を添える。土地・建物の両方の執筆プロンプトに適用する
+- 反映：`prompt_note-kijutsu_tochi_kaiwa_kyoutsu.md`・`prompt_note-kijutsu_tochi_kyoutsu.md`・`prompt_note-kijutsu_tatemono_kyoutsu.md` の「書き方の注意」に2つのルール（改題の要素は記事・図解に反映しない／答えは今の法令で、出題当時の扱いは注で添える）を追加し、土地の論点・建物の「法人の申請人と改正前の年度」の項目も同じ内容に改めた。本指示書の共通の項目（3-1の前）と3-1、両方の依頼文も同じ内容にした
+- 見直しの結果（直した箇所）：記事冒頭の照合の一文にあった改題の説明（「日付を平成30年に置き換えた改題版のため〜」）をH23/Q22・H24/Q22・H25/Q21・H25/Q22・H26/Q22の5本で削った。H26/Q22は予備校の解答例の書き方を紹介したセリフを削り、添付情報の答えに出題当時（資格証明情報）の注を添えた。H27/Q21は冒頭の一文・添付情報の箇条・トリ先生のセリフを「答えは今の法令、出題当時は注」の形にした。H23/Q21は下の記録で外した会社法人等番号を答えに戻し（土地所在図・地積測量図・所有権証明書・会社法人等番号・代理権限証書）、出題当時は住所証明書を付け資格証明書は問題文の注5で不要だったことを注に書き、登記申請書の完成形・添削画像・図11を描き直した
+- 照合スクリプト：H23/Q21・H23/Q22・H25/Q21・H26/Q22に、改題の要素がないこと・出題当時の注があることの確認を加えた（NG 0件）
+- 新しい気づき：改題の要素（日付・人名・注の書き換え）と法令の改正（会社法人等番号など）は別物。前者は使わない、後者は今の法令で答えて出題当時を注にする。混同して「本試験当時の法令で答える」とすると、今の受験生に古い答えを覚えさせてしまう
+- 下の「H23 Q21：改題で加えられた要素を記事から外す」の記録のうち、会社法人等番号の説明を削った部分は、この指示2で改めた
 
 **2026-09-30　H23 Q21：改題で加えられた要素を記事から外す（ユーザー指示）**
 
